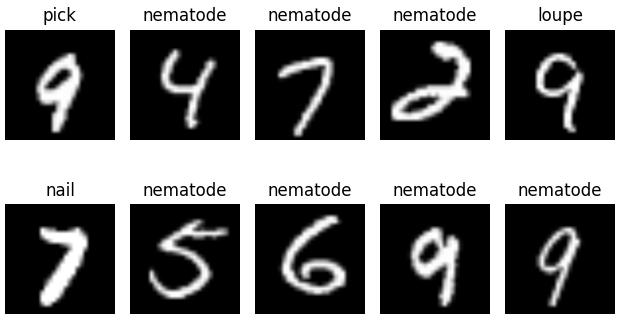
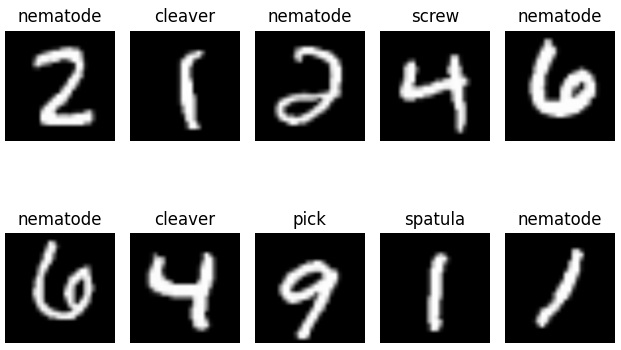
finish transfer learning scripts

diff --git a/pretrained-model-transfer-learning/mobile_net_v3_fine_tuning.py b/pretrained-model-transfer-learning/mobile_net_v3_fine_tuning.py
@@ -1,4 +1,5 @@
 import torch
+from torch import nn
 from torch.utils.data import DataLoader
 import torchvision
 import torchvision.models as tv_models
@@ -9,7 +10,7 @@ import random
 import utils
 
 
-# MNIST mean and std
+# ImageNet mean and std
 MEAN = [0.485, 0.456, 0.406]
 STD = [0.229, 0.224, 0.225]
 
@@ -34,20 +35,22 @@ def predict_digitals(model, dataset, class_name_dict):
     with torch.no_grad():
         for i, idx in enumerate(indices):
             img, true_label = dataset[idx]
-            output = model(img.unsqueeze(0))
+            output = model(img.unsqueeze(0)) # remember to add batch dim
             pred = torch.argmax(output).item()
             if class_name_dict:
                 pred = class_name_dict[str(pred)][1]
             print(f"true label: {true_label}  pred: {pred}")
 
             # plot images
-            axe = fig.add_subplot(2,5,i+1)
+            axe = fig.add_subplot(2,5,i+1)  # subplot index starts from 1
             axe.axis('off')
             axe.set_title(str(pred))
 
+            # convert shape and de-normalize
             mean = torch.tensor(MEAN).view(3, 1, 1)
             std = torch.tensor(STD).view(3, 1, 1)
             axe.imshow((img * std + mean).permute(1,2,0))
+
     plt.tight_layout()
     plt.show()
 
@@ -56,7 +59,7 @@ def load_model_with_weights():
     # load model with pretrained weights
     return tv_models.mobilenet_v3_small(weights=tv_models.MobileNet_V3_Small_Weights.DEFAULT)
 
-def mnist_dataloader() -> tuple[torch.utils.data.Dataset, torch.utils.data.DataLoader]:
+def mnist_dataloader() -> torch.utils.data.DataLoader:
     # load MNIST train data and wrapped with dataloader
     mnist_transform = transforms.Compose([
         # Convert grayscale image to 3 channels to match MobileNetV2's input
@@ -66,10 +69,54 @@ def mnist_dataloader() -> tuple[torch.utils.data.Dataset, torch.utils.data.DataL
         transforms.ToTensor(),
         # Normalize the tensor using ImageNet's mean and standard deviation
         transforms.Normalize(mean=MEAN, std=STD)
-        # transforms.Normalize(mean=MEAN, std=STD)  
     ])
-    train_dataset = torchvision.datasets.MNIST(root="./data",train=True,download=False,transform=mnist_transform)
-    return train_dataset, DataLoader(dataset=train_dataset, batch_size=64, shuffle=True)
+    train_dataset = torchvision.datasets.MNIST(root="./data",train=False,download=False,transform=mnist_transform)
+    return DataLoader(dataset=train_dataset, batch_size=128, shuffle=True)
+
+def replace_and_retrain(model, dataloader):
+    print(f"== Starting retrain the model")
+    model.train()
+    # freeze pretrained parameters for feature layers
+    for feature_parameter in model.features.parameters():
+        feature_parameter.requires_grad = False
+
+    # retrieve the last layer of classifier
+    last_classifier_layer = model.classifier[-1]
+    # the in_features of last_classifier_layer
+    num_features = last_classifier_layer.in_features
+
+    # our target classifications for MINIST
+    num_classes = 10
+    # replace the last layer for 10 items prediction results
+    model.classifier[-1] = nn.Linear(in_features=num_features, out_features=num_classes)
+    print(f"After replacement:\n {model.classifier}")
+    
+    # training strategy, the entire layer of classifier will be retrained
+    loss_function = torch.nn.CrossEntropyLoss()
+    # Only optimize the parameters that require gradients
+    optimizer = torch.optim.AdamW(filter(lambda p: p.requires_grad, model.parameters()), lr=0.001)
+
+    # just several epochs
+    num_epoch = 3
+    for n in range(num_epoch):
+        training_loss = 0.0
+        # batch = 0
+        for imgs, labels in dataloader:
+            # batch += 1
+            # print(f"batch {batch} running...")
+
+            optimizer.zero_grad()
+            ouputs = model(imgs)
+            loss = loss_function(ouputs, labels)
+            loss.backward()
+            optimizer.step()
+
+            training_loss += loss.item() * imgs.size(0)
+
+        epoch_loss = training_loss / len(dataloader.dataset)
+        print(f"Epoch({n+1}/3):   loss: {epoch_loss}")
+
+    return model
 
 
 if __name__ == "__main__":
@@ -77,55 +124,29 @@ if __name__ == "__main__":
     show_menu()
     choose = input("Choose: ").strip()
 
-    if choose == '1': # directly make predictions without any change
+    if choose == '1':  # Directly make predictions without any change
         # load ImageNet class name indecies
         current_dir = Path(__file__).parent
         class_names_dict = utils.load_classnames_json(str(current_dir / "./imagenet_class_index.json"))
 
         # load model and data
         model = load_model_with_weights()
-        dataset, dataloader = mnist_dataloader()
+        dataloader = mnist_dataloader()
 
         print("== Prediction ==")
-        predict_digitals(model, dataset, class_names_dict)
+        predict_digitals(model, dataloader.dataset, class_names_dict)
 
-    elif choose == '2': # replace the classifier, post-trained and make predictions
+        # print(f"dataset size : {len(dataloader.dataset)}")
+
+    elif choose == '2':  # Replace the classifier for 10 item classifications, retrained and make predictions
         # load model
         model = load_model_with_weights()
+        dataloader = mnist_dataloader()
+        model = replace_and_retrain(model, dataloader)
+        print(f"After retraining, we make prediction again")
 
-        print("")
+        print("== Prediction ==")
+        predict_digitals(model, dataloader.dataset, None)
+
     else:
         print("terminated")
-
-    
-    
-    
-
-    # Case 1: Directly make predictions on MNIST
-
-
-
-    # Case 2: Substitude the classifier layer for 10 item classifications 
-    #         and do post-training and fine tuning, then make predictions
-
-"""
-    # freeze pretrained parameters for feature layers
-    for feature_parameter in mobilenet_model.features.parameters():
-        feature_parameter.requires_grad = False
-
-    # the final classification layer
-    last_classifier_layer = mobilenet_model.classifier[-1]
-    # the in_features of last_classifier_layer
-    num_features = last_classifier_layer.in_features
-
-    # our target classifications for MINIST
-    num_classes = 26
-
-    # substitude for a new layer
-    mobilenet_model.classifier[-1] = nn.Linear(in_features=num_features, out_features=num_classes)
-
-    # training strategy
-    loss_function = torch.nn.CrossEntropyLoss()
-    # Only optimize the parameters that require gradients
-    optimizer = torch.optim.AdamW(filter(lambda p: p.requires_grad, mobilenet_model.parameters()), lr=0.001)
-"""

diff --git a/pretrained-model-transfer-learning/README.md b/pretrained-model-transfer-learning/README.md
@@ -66,11 +66,47 @@ In the script, I use `mobilenet_v3_small`, a tiny network pretrained on ImageNet
 
 ![digit_sample](imgs/digit01.png)
 
-Although both are image prediction, the training dataset content were a huge vary. As expected, it won't work well and makes lots of incorrect predictions. Here comes the transfer learning, we replace some of the top layers of classifier, then retrained it with new dataset. Just for a few couple of epochs, it will do a brilliant work.
+Something need to mention is that while `MobileNetV3` was trained on colored images, MNIST datasets are gray scale images with just one channel. So we need to convert them to the same format with transforms in order to make predictions.
+
+```python
+mnist_transform = transforms.Compose([
+    # Convert gray scale image to 3 channels to match MobileNetV3's input
+    transforms.Grayscale(num_output_channels=3),
+    # Resize the image to 224x224, the standard input size for MobileNetV3
+    transforms.Resize((224, 224)),
+    transforms.ToTensor(),
+    # Normalize the tensor using ImageNet's mean and standard deviation
+    transforms.Normalize(mean=MEAN, std=STD)
+])
+```
+
+Although both are image prediction, the training dataset content were a huge vary. As expected, it won't work well and makes lots of incorrect predictions. 
 
 **Predicting without transfer learning**
 
 ![incorrect_prediction](imgs/incorrect_pred.png)
 
-As you can see, training on ImageNet won't help it recognizing the gray simple digits.
+As you can see, pre-trained knowledges on ImageNet won't help it recognizing the gray simple digits. Here comes the transfer learning, we replace some of the last layers of classifier, then retrained it with new dataset. Just for a few couple of epochs, it will do a much better work.
+
+```python
+# freeze pretrained parameters for feature layers
+for feature_parameter in model.features.parameters():
+    feature_parameter.requires_grad = False
+
+# retrieve the last layer of classifier
+last_classifier_layer = model.classifier[-1]
+# the in_features of last_classifier_layer
+num_features = last_classifier_layer.in_features
+
+# our target classifications for MINIST which is 0-9
+num_classes = 10
+# replace the last layer for 10 items prediction results
+model.classifier[-1] = nn.Linear(in_features=num_features, out_features=num_classes)
+```
+
+**Predicting after transfer learning**
+
+![better_prediction](imgs/retrained_pred.png)
+
+There you see, just using 10000 dataset for 3 epochs training, the `MobileNetV3` network now is able to predict digits with more accuracy.
 